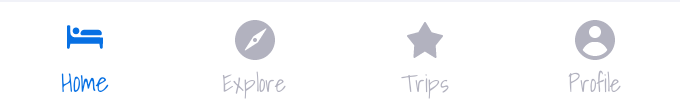
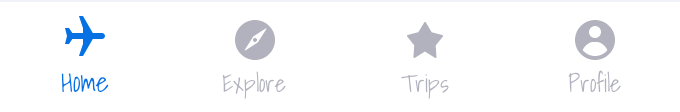
[BPK-3722] Fixed the CI.

Changed region(s): [[0.0926, 0.1339, 0.1544, 0.5089]]

diff --git a/app/src/androidTest/java/net/skyscanner/backpack/bottomnav/BpkBottomNavTest.kt b/app/src/androidTest/java/net/skyscanner/backpack/bottomnav/BpkBottomNavTest.kt
@@ -20,7 +20,7 @@ class BpkBottomNavTest : BpkSnapshotTest() {
   @Test
   fun screenshotTestBottomNav_Default() {
     snap(BpkBottomNav(testContext).apply {
-      addItem(1, R.string.bottom_nav_home, R.drawable.bpk_hotels)
+      addItem(1, R.string.bottom_nav_home, R.drawable.bpk_aircraft)
       addItem(2, R.string.bottom_nav_explore, R.drawable.bpk_navigation)
       addItem(3, R.string.bottom_nav_trips, R.drawable.bpk_star)
       addItem(4, R.string.bottom_nav_profile, R.drawable.bpk_account_circle)
@@ -30,7 +30,7 @@ class BpkBottomNavTest : BpkSnapshotTest() {
   @Test
   fun screenshotTestBottomNav_Themed() {
     snap(BpkBottomNav(createThemedContext(testContext)).apply {
-      addItem(1, R.string.bottom_nav_home, R.drawable.bpk_hotels)
+      addItem(1, R.string.bottom_nav_home, R.drawable.bpk_aircraft)
       addItem(2, R.string.bottom_nav_explore, R.drawable.bpk_navigation)
       addItem(3, R.string.bottom_nav_trips, R.drawable.bpk_star)
       addItem(4, R.string.bottom_nav_profile, R.drawable.bpk_account_circle)
